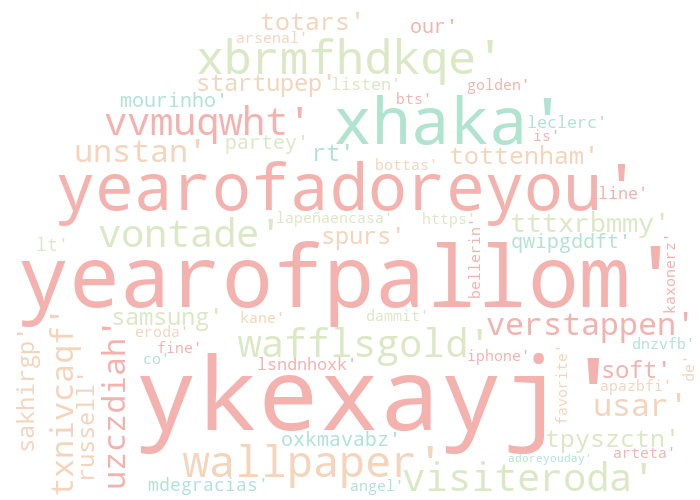
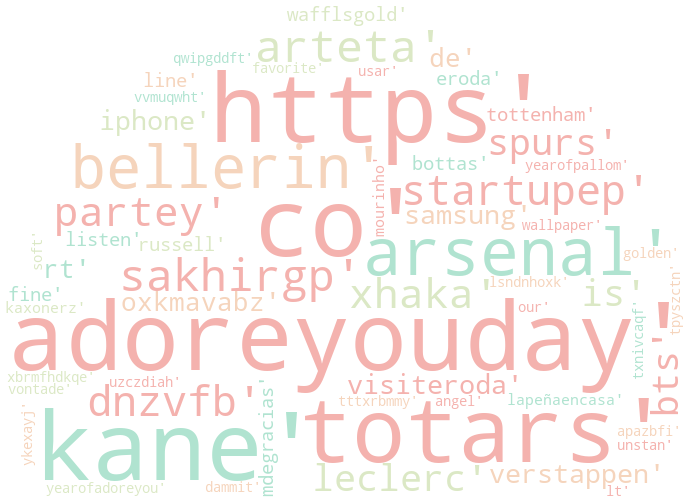
fixed most_common in build_wordcloud

Changed region(s): [[0.0, 0.0, 0.99, 0.99]]

diff --git a/src/pipeline.py b/src/pipeline.py
@@ -14,6 +14,7 @@ def read_from_storage(filename):
     OUT:
     tweets (list): text of all tweets of the trend
     """
+
     current_dir = os.path.dirname(os.path.abspath(__file__))
     path = current_dir + '/../storage/jsons/' + filename
     tweets = []
@@ -25,7 +26,58 @@ def read_from_storage(filename):
 
     return tweets
 
-# die jet wieder!
+def count_links(extracted_links):
+    """
+    IN:
+    extracted_links (list): list containing all links in on trend
+    OUT:
+    extracted_links_filterd (list): list containing all links in on trend but duplicates are removed
+    """
+
+    counted_links_dict = {}
+
+    for link in extracted_links:
+        link_str = ' '.join(link)
+        
+        if counted_links_dict.get(link_str):
+            counted_links_dict[link_str] += 1
+        else:
+            counted_links_dict[link_str] = 1
+        
+    return counted_links_dict
+
+def get_links_from_tweet(tweets):
+    """
+    IN:
+    tweets (list): text of all tweets of the trend
+    OUT:
+    extracted_links (list): list containing all links in on trend
+    """
+
+    extracted_links = []
+    
+    link_string = "(http[s]?://(?:[a-zA-Z]|[0-9]|[$-_@.&+]|[!*\(\),]|(?:%[0-9a-fA-F][0-9a-fA-F]))+)"
+    for tweet in tweets:
+        if re.search(link_string, tweet):
+            extracted_links.append(re.findall(link_string, tweet))
+    
+    return count_links(extracted_links)
+
+def remove_numbers_and_links(tweets):
+    """
+    IN:
+    tweets (list): text of all tweets of the trend
+    OUT:
+    tweets (list): text of all tweets of the trend
+    """
+
+    for index in range(len(tweets)):
+        tweets[index] = re.sub(r'[\d]', '', tweets[index])
+        tweets[index] = re.sub(
+            r'http[s]?://(?:[a-zA-Z]|[0-9]|[$-_@.&+]|[!*\(\),]|(?:%[0-9a-fA-F][0-9a-fA-F]))+', '', tweets[index])
+    
+    return tweets
+
 def clean_tweets(trend_from_storage):
     """
     IN:
@@ -41,8 +93,12 @@ def clean_tweets(trend_from_storage):
     nlp.disable_pipes('tagger', 'parser', 'ner')
 
     tweets = read_from_storage(trend_from_storage)
-    for index in range(len(tweets)):
-        tweets[index] = re.sub(r'[\d]', '', tweets[index])
+
+    # Get all links in tweets
+    extracted_links = get_links_from_tweet(tweets)
+
+    # Remove all numbers and links
+    tweets = remove_numbers_and_links(tweets)
 
     german_stop_words = stopwords.words('german')
     vectorizer = CountVectorizer(analyzer="word", lowercase=True, stop_words=german_stop_words)
@@ -59,50 +115,9 @@ def clean_tweets(trend_from_storage):
             else:
                 lemmatized_dict[t.lemma_] += X[0:X.shape[0], index].sum()
 
-    return lemmatized_dict
-
-def clean_tweets_twopointo(trend_from_storage):
-    """
-    IN:
-    trend_from_storage (string): one trend in the form "<trend>.json"
-    OUT:
-    lemmatized_dict (dict): preprocessed data dict for that trend, structure: {"word": <word count>, ...}
-    """
-
-    # load nltk stopwords
-    nltk.download('stopwords')
-    # load NLP for tokenisation/lemmatization
-    nlp = spacy.load('de_core_news_sm')
-    nlp.disable_pipes('tagger', 'parser', 'ner')
-
-    tweets = read_from_storage(trend_from_storage)
-    # remove numbers
-    for index in range(len(tweets)):
-        tweets[index] = re.sub(r'[\d]', '', tweets[index])
-
-    lemmatized_dict = {}
-    sorted_list = []
-
-    for line in tweets:
-        doc = nlp(line)
-        # token_list = [token for token in doc]
-        filtered_tokens = [token for token in doc if not token.is_stop]
-        lemmas = [token.lemma_ for token in filtered_tokens]
-        # might change to a list comprehension
-        while(" " in lemmas):
-            lemmas.remove(" ")
-        sorted_list.append(lemmas)
-    
-    for token_list in sorted_list:
-        for token in token_list:          
-            if not lemmatized_dict.get(token):
-                lemmatized_dict[token] = 1
-            else:
-                lemmatized_dict[token] += 1
-
-    return lemmatized_dict
+    return lemmatized_dict #, extracted_links
 
 if __name__ == "__main__":
 
-    print(clean_tweets_twopointo("#Formel1.json").get("Vettel"))
+    print(clean_tweets("Test.json"))
     print("\nYou are doing great! :)")  # Motivational Message

diff --git a/src/build_wordcloud.py b/src/build_wordcloud.py
@@ -46,8 +46,6 @@ def save_wordcloud_to_storage(trend_name, wordcloud):
 
         plt.imshow(wordcloud, interpolation="bilinear")
         wordcloud.to_file(path)
-        # plt.axis('off')
-        # plt.savefig(path)
 
         print("Image successfully writen to storage/wordclouds/" + name)
 
@@ -58,6 +56,7 @@ def save_wordcloud_to_storage(trend_name, wordcloud):
 def get_most_common(trend, data):
     # run pipeline for all tweets from each trend to get preprocessed data
     most_common = sorted(data, key=data.get, reverse=True)
+    most_common_str = ' '.join(most_common)
     wordcloud = WordCloud(
         background_color=None, mode='RGBA', max_words=200, random_state=42, width=1000, height=1000,
         color_func=multi_color_func, mask=make_circle()).generate(str(most_common))
